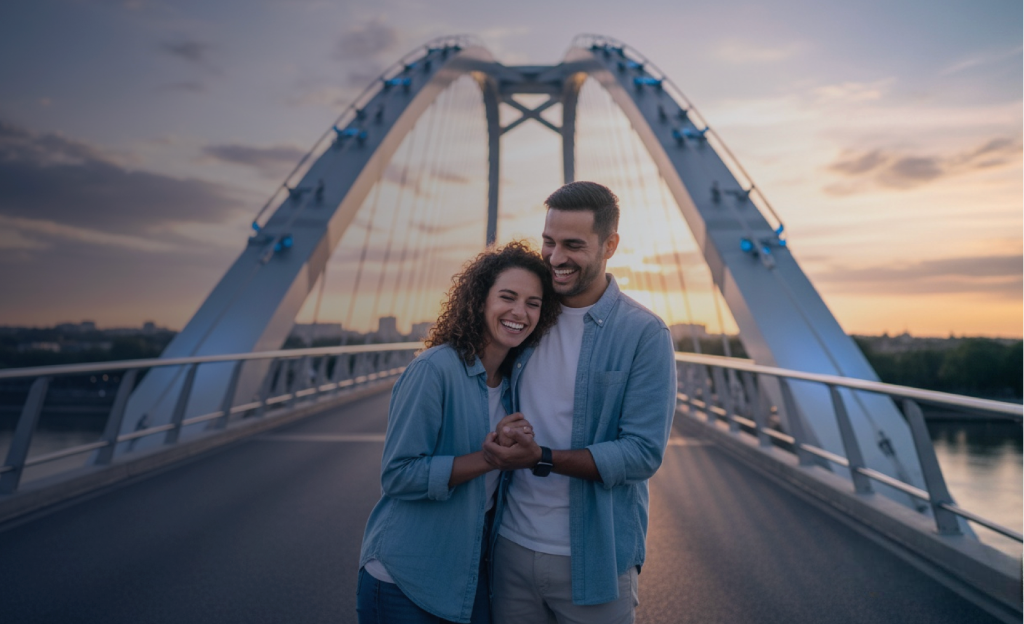
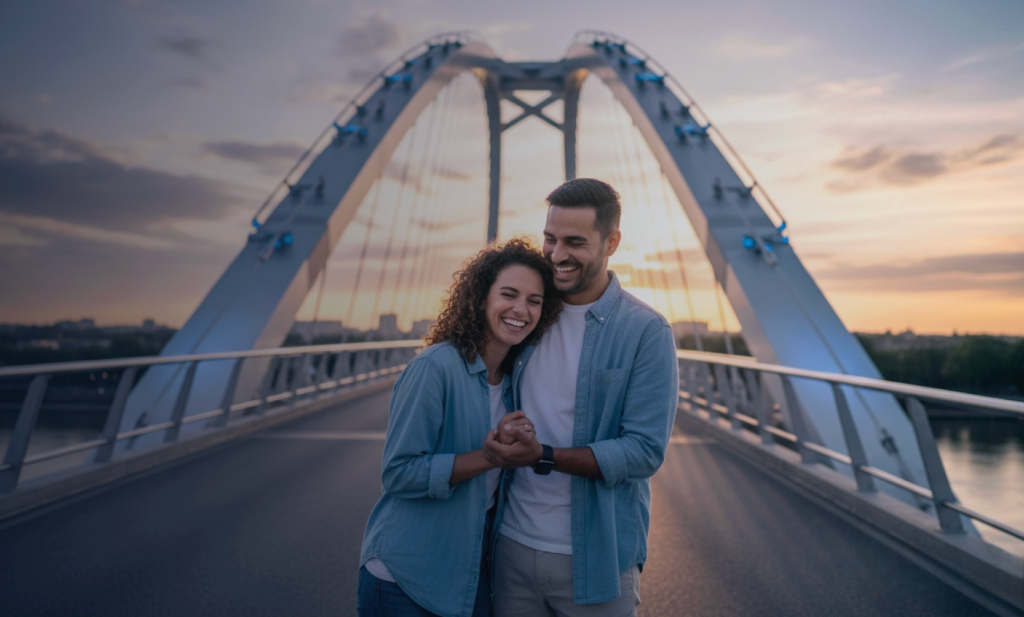
feat: use high-quality hero image and optimize rendering

diff --git a/components/MainContent.tsx b/components/MainContent.tsx
@@ -26,24 +26,26 @@ export default function MainContent({ showContent = false }: MainContentProps) {
                 className="absolute inset-0 z-0 bg-cover bg-center bg-no-repeat transform-gpu"
                 style={{
                     backgroundImage: `url('/hero_bridge.png')`,
-                    filter: "brightness(0.7)"
                 }}
             >
+                {/* Overlay for quality and readability */}
+                <div className="absolute inset-0 bg-black/30" />
+
                 {/* Dynamic Moving Glow */}
                 <motion.div
                     animate={{
                         background: [
-                            "radial-gradient(800px circle at 0% 0%, rgba(59, 130, 246, 0.1), transparent)",
-                            "radial-gradient(800px circle at 100% 100%, rgba(59, 130, 246, 0.1), transparent)",
-                            "radial-gradient(800px circle at 0% 100%, rgba(59, 130, 246, 0.1), transparent)",
-                            "radial-gradient(800px circle at 100% 0%, rgba(59, 130, 246, 0.1), transparent)",
-                            "radial-gradient(800px circle at 0% 0%, rgba(59, 130, 246, 0.1), transparent)",
+                            "radial-gradient(800px circle at 0% 0%, rgba(59, 130, 246, 0.08), transparent)",
+                            "radial-gradient(800px circle at 100% 100%, rgba(59, 130, 246, 0.08), transparent)",
+                            "radial-gradient(800px circle at 0% 100%, rgba(59, 130, 246, 0.08), transparent)",
+                            "radial-gradient(800px circle at 100% 0%, rgba(59, 130, 246, 0.08), transparent)",
+                            "radial-gradient(800px circle at 0% 0%, rgba(59, 130, 246, 0.08), transparent)",
                         ]
                     }}
                     transition={{ duration: 20, repeat: Infinity, ease: "linear" }}
                     className="absolute inset-0 z-0 opacity-40"
                 />
-                <div className="absolute inset-0 bg-gradient-to-t from-black/60 via-transparent to-black/30" />
+                <div className="absolute inset-0 bg-gradient-to-t from-black/80 via-transparent to-black/40" />
             </motion.div>
 
             {/* Hero Content - Full Viewport Height */}
